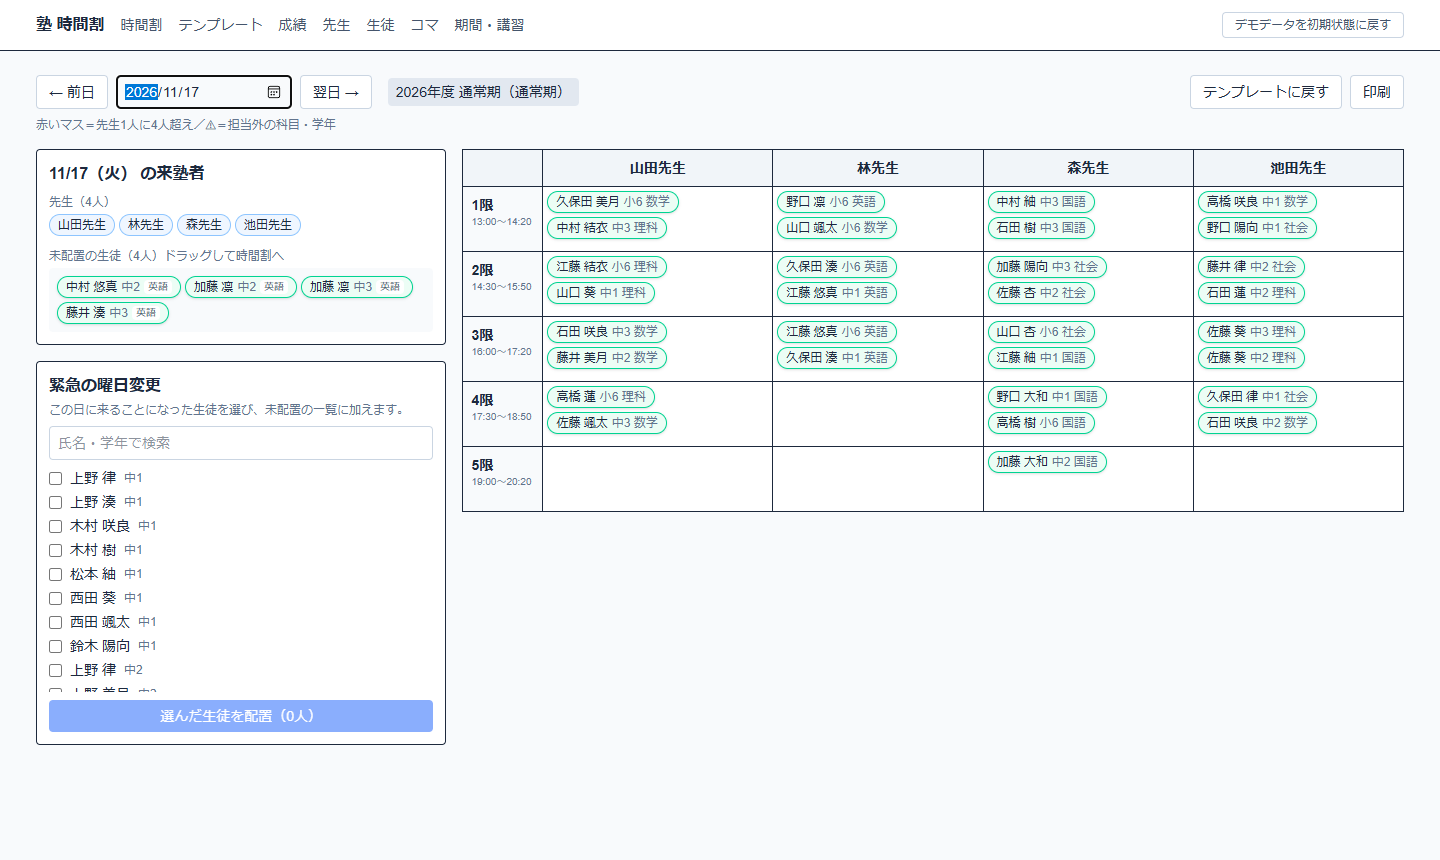
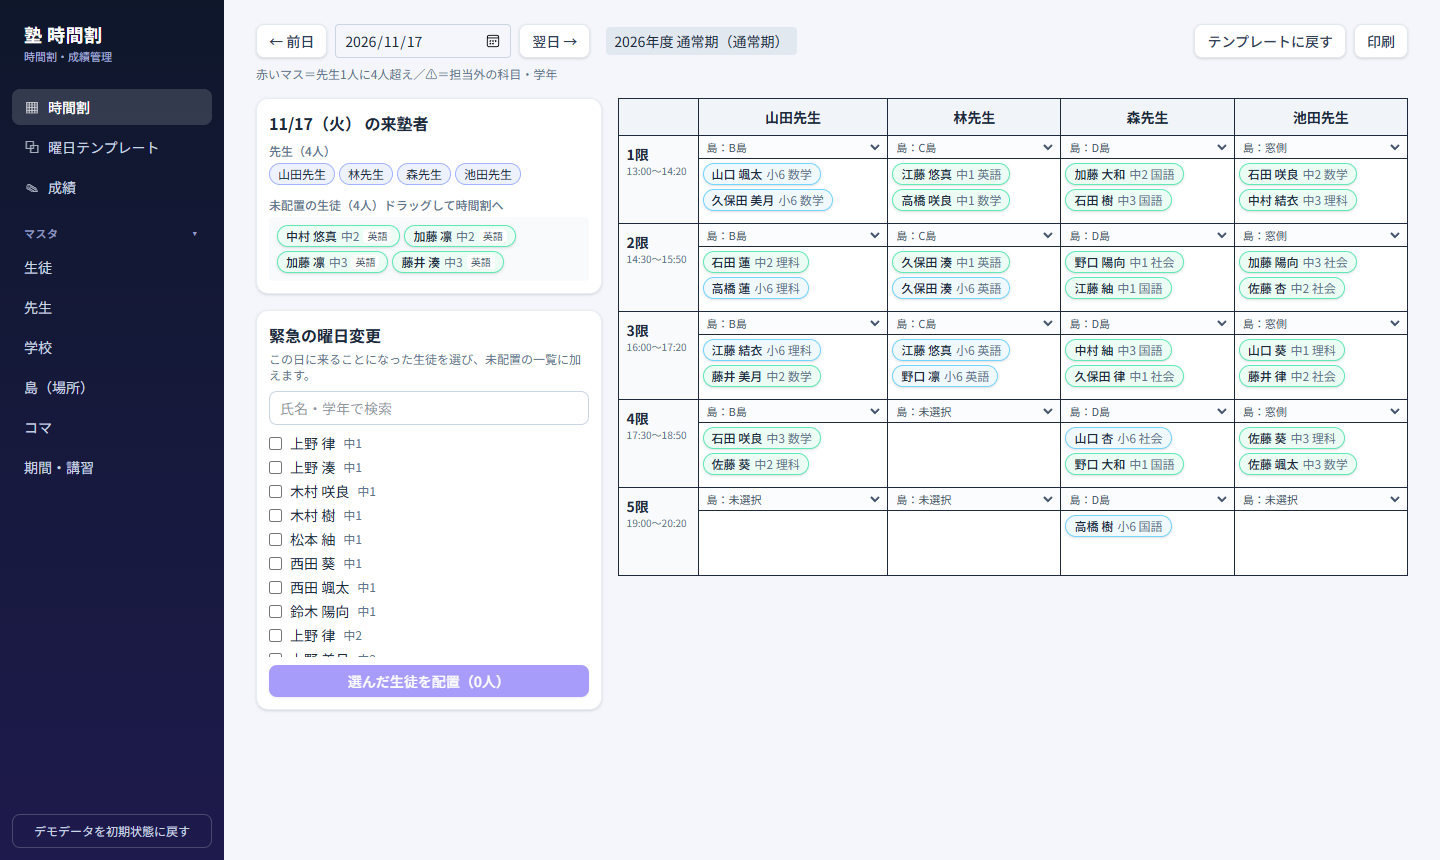
fix: filter widths; docs: README for stage 3

diff --git a/src/app/(app)/students/page.tsx b/src/app/(app)/students/page.tsx
@@ -75,7 +75,7 @@ export default function StudentsPage() {
         </div>
       )}
 
-      <div className="mb-4 flex flex-wrap items-center gap-2">
+      <div className="mb-4 flex flex-wrap items-center gap-2 [&>select]:w-auto">
         <div className="flex rounded-lg border border-slate-200 bg-white p-0.5 text-sm shadow-sm">
           {[['在籍', false], ['卒業', true]].map(([label, g]) => (
             <button key={String(label)} onClick={() => setGraduated(g as boolean)}
@@ -84,12 +84,12 @@ export default function StudentsPage() {
         </div>
         <input className={`${inputCls} max-w-48`} placeholder="氏名で絞り込み" value={q} onChange={(e) => setQ(e.target.value)} />
         {!graduated && (
-          <select className={`${inputCls} w-28`} value={grade} onChange={(e) => setGrade(e.target.value)}>
+          <select className={`${inputCls} max-w-28`} value={grade} onChange={(e) => setGrade(e.target.value)}>
             <option value="">全学年</option>
             {GRADES.map((g) => <option key={g}>{g}</option>)}
           </select>
         )}
-        <select className={`${inputCls} w-40`} value={schoolId} onChange={(e) => setSchoolId(e.target.value)}>
+        <select className={`${inputCls} max-w-40`} value={schoolId} onChange={(e) => setSchoolId(e.target.value)}>
           <option value="">全学校</option>
           {data?.schools.map((s) => <option key={s.id} value={s.id}>{s.name}</option>)}
         </select>

diff --git a/src/app/(app)/tests/[id]/page.tsx b/src/app/(app)/tests/[id]/page.tsx
@@ -49,13 +49,13 @@ export default function ScoreEntryPage() {
       <PageTitle action={<Link href="/tests" className="text-sm text-indigo-600 hover:underline">← テスト一覧</Link>}>{data.exam.name} の点数入力</PageTitle>
       <div className="mb-3 flex flex-wrap items-center gap-3 text-sm">
         <label className="flex items-center gap-2">学年
-          <select className={`${inputCls} w-28`} value={grade} onChange={(e) => setGrade(e.target.value)}>
+          <select className={`${inputCls} max-w-28`} value={grade} onChange={(e) => setGrade(e.target.value)}>
             <option value="">すべて</option>
             {grades.map((g) => <option key={g}>{g}</option>)}
           </select>
         </label>
         <label className="flex items-center gap-2">学校
-          <select className={`${inputCls} w-40`} value={schoolId} onChange={(e) => setSchoolId(e.target.value)}>
+          <select className={`${inputCls} max-w-40`} value={schoolId} onChange={(e) => setSchoolId(e.target.value)}>
             <option value="">すべて</option>
             {data.schools.map((x) => <option key={x.id} value={x.id}>{x.name}</option>)}
           </select>

diff --git a/src/app/(app)/students/[id]/grades/page.tsx b/src/app/(app)/students/[id]/grades/page.tsx
@@ -105,7 +105,7 @@ export default function StudentGradesPage() {
             <section className="card p-3 break-inside-avoid">
               <div className="mb-2 flex items-center justify-between">
                 <h2 className="text-sm font-bold">{subject}の推移</h2>
-                <select className={`${inputCls} w-32 print:hidden`} value={subject} onChange={(e) => setSubject(e.target.value as Subject)}>
+                <select className={`${inputCls} max-w-32 print:hidden`} value={subject} onChange={(e) => setSubject(e.target.value as Subject)}>
                   {(usedSubjects.length ? usedSubjects : SUBJECTS).map((s) => <option key={s}>{s}</option>)}
                 </select>
               </div>

diff --git a/README.md b/README.md
@@ -32,8 +32,10 @@
 
 ![生徒の成績（面談資料）](docs/images/grades.png)
 
-- **マスタ管理**（下は先生マスタ）：先生（担当科目・学年・出勤曜日）、生徒（学年・通常の曜日と科目）、コマ、期間・講習（申込コマ数・来られない日）
-![先生マスタ](docs/images/teachers.png)
+- **島（場所）**：時間割・テンプレートの各マス（コマ×先生）で使う島を選べる。同じコマで島が重なると ⚠
+- **学年の繰り上げ**：4月以降に生徒画面のボタンで全員の学年を1つ上げる（中3→高1、高3→卒業。1年度に1回だけ、二重実行はDBで防止）
+- **マスタ管理**（左メニューの「マスタ」）：生徒（学年・学校・通常の曜日と科目、在籍／卒業）、先生、学校、島、コマ、期間・講習
+![生徒マスタ（学校・学年で絞り込み）](docs/images/students.png)
 
 - **デモ**：ゲストとしてログインして試せます。データは毎日3時（日本時間）に初期状態へ戻り、画面上部のボタンでも戻せます。
 
